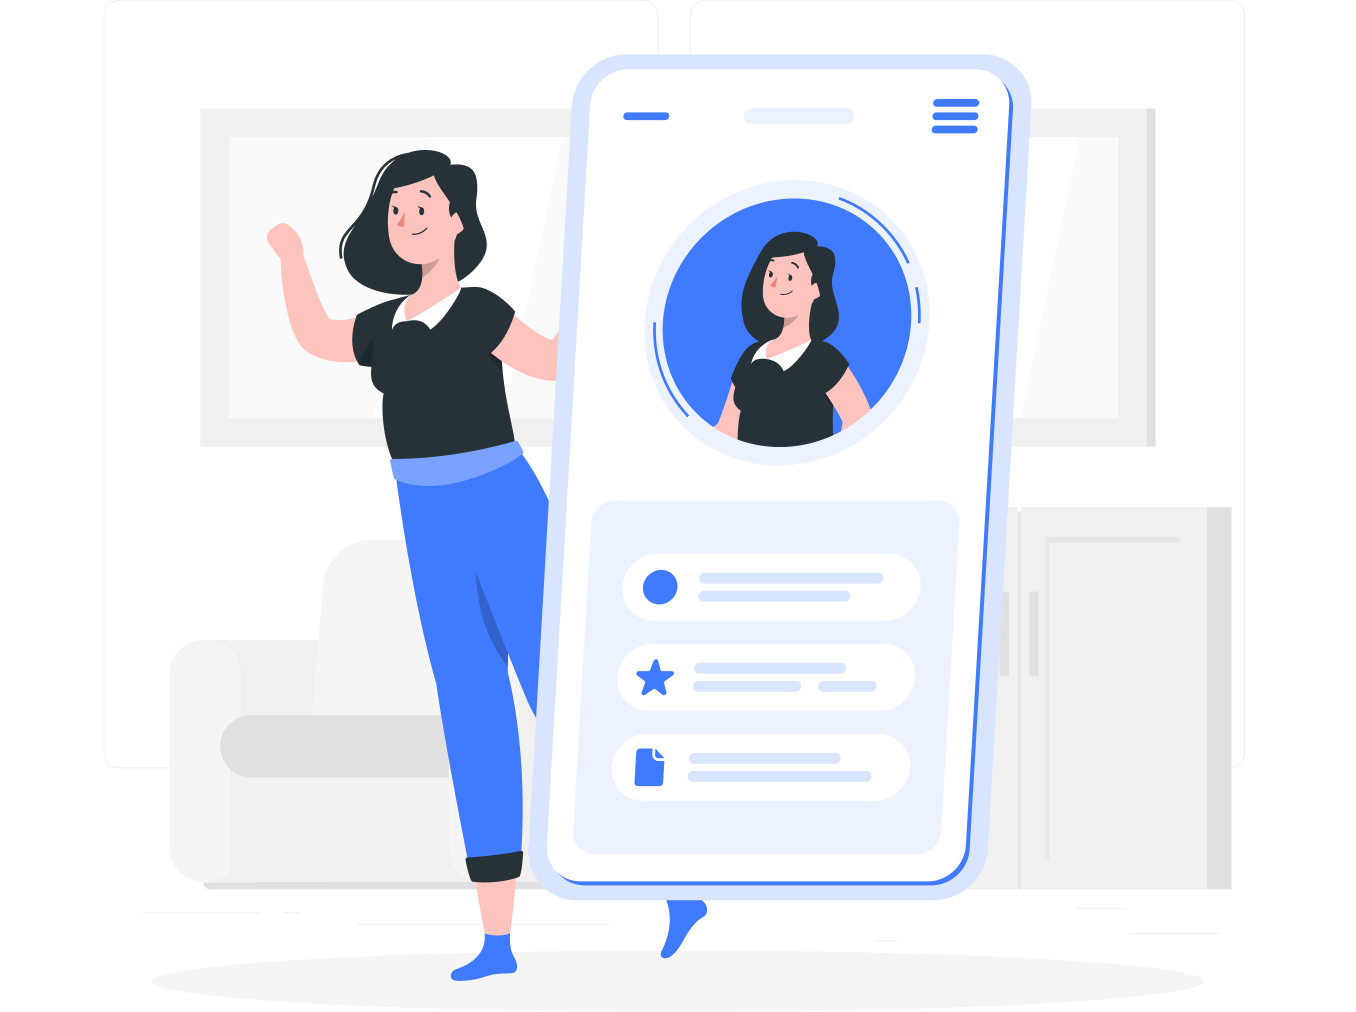
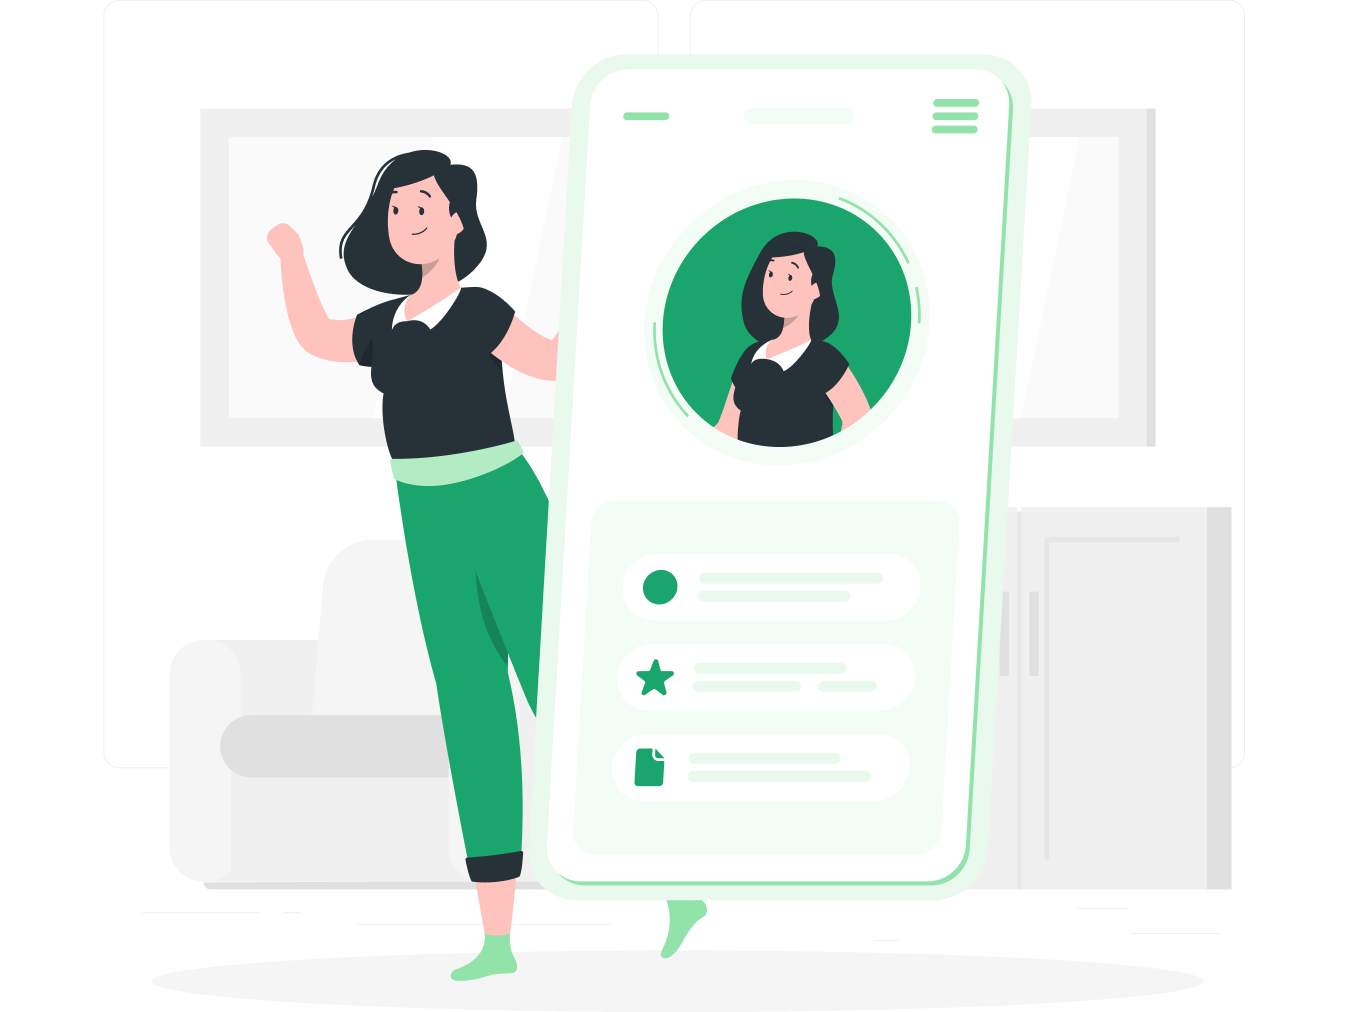
signup minor change

diff --git a/lib/signup.dart b/lib/signup.dart
@@ -26,22 +26,13 @@ class _SignUpState extends State<SignUp> {
             padding: EdgeInsets.symmetric(horizontal: 40),
             child: Column(
                 children:[
-                  Text("Sign up",
-                    style: TextStyle(
-                      fontSize: 30,
-                      fontWeight: FontWeight.bold,
-                    ),),
-                  SizedBox(height: 10,),
-                  Text("Create an account",
-                    style: TextStyle(
-                        fontSize: 15,
-                        color:Colors.grey[700]),),
+                  Image.asset('assets/signup.png'),
                   SizedBox(height: 40,),
                   Column(
                     children: [
                       inputFile(label: "Username"),
                       SizedBox(height: 20,),
-                      inputFile(label: "Email"),
+                      inputFile(label: "Email Id"),
                       SizedBox(height: 20,),
                       inputFile(label: "Phone Number"),
                       SizedBox(height: 20,),
@@ -50,27 +41,32 @@ class _SignUpState extends State<SignUp> {
                       inputFile(label: "Confirm Password ", obscureText: true),
                     ],
                   ),
-                  SizedBox(height: 20,),
+                  SizedBox(height: 10,),
                   Row(children: [
                     Checkbox(
+
+                        activeColor: Color(0xff12734C),
+                        shape: RoundedRectangleBorder(
+                          borderRadius: BorderRadius.circular(5),
+                        ),
                         value: checked,
                         onChanged: ((value) {
                           setState(() {
                             checked = value!;
                           });
                         })),
-                    Text("Agree Terms and conditions")
+                    Text("Terms and Conditions")
                   ]),
-                  SizedBox(height: 30,),
+                  SizedBox(height: 20,),
                   GestureDetector(
                     onTap: () {},
                     child: Container(
-                      width: 200,
-                      height: 50,
+                      width: 118,
+                      height: 35,
                       alignment: Alignment.center,
                       decoration: BoxDecoration(
                         borderRadius: BorderRadius.circular(50),
-                        color: Color(0xff47B5FF),
+                        color: Color(0xff12734C),
                       ),
                       child: Center(
                         child: Text(
@@ -94,9 +90,9 @@ class _SignUpState extends State<SignUp> {
                         textAlign: TextAlign.center,
                       ),
                       Text(
-                        'Login',
+                        'Sign In',
                         style: TextStyle(
-                          color: Color(0xff47B5FF),
+                          color: Color(0xff12734C),
                         ),
                         textAlign: TextAlign.center,
                       ),
@@ -129,15 +125,15 @@ Widget inputFile({label, obscureText = false})
           obscureText: obscureText,
           decoration: InputDecoration(
             contentPadding: EdgeInsets.symmetric(horizontal: 10),
+            focusedBorder: OutlineInputBorder(
+                borderRadius: BorderRadius.circular(10),
+                borderSide:
+                const BorderSide(color:Color(0xff12734C), width: 1)),
             enabledBorder: OutlineInputBorder(
                 borderRadius: BorderRadius.circular(10),
                 borderSide:
-                const BorderSide(color:Color(0xff47B5FF), width: 1)),
-            border: OutlineInputBorder(
-                borderRadius: BorderRadius.circular(10),
-                borderSide:
-                const BorderSide(color: Color(0xff47B5FF), width: 1)),
-            hintText: "Enter the "+label,
+                const BorderSide(color: Color(0xff12734C), width: 1)),
+            hintText: "Enter your "+label,
             fillColor: Color(0xff47B5FF),
           )
       ),

diff --git a/lib/main.dart b/lib/main.dart
@@ -1,3 +1,4 @@
+import 'package:bems/Login.dart';
 import 'package:bems/NavBar.dart';
 import 'package:bems/signup.dart';
 import 'package:flutter/material.dart';
